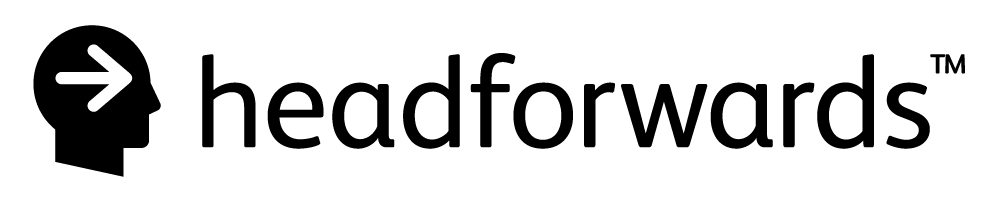
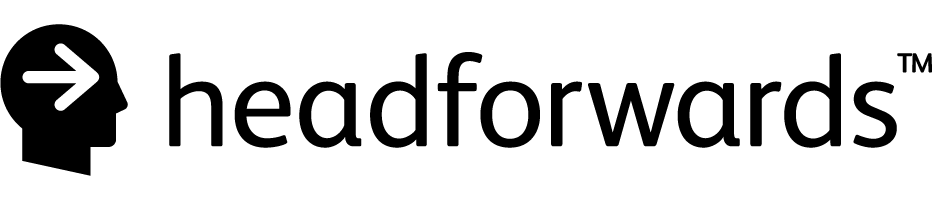
more column tweaks

Changed region(s): [[0.0, 0.12, 1.0, 0.9], [0.4979, 0.24, 0.529, 0.33], [0.529, 0.39, 0.5601, 0.42]]

diff --git a/src/components/page-layout/navbar/navbar.module.scss b/src/components/page-layout/navbar/navbar.module.scss
@@ -4,7 +4,11 @@
 @import '../../page-components/page-component';
 
 .menu {
-    padding: $gutter-small;
+    padding: $gutter-small $gutter-small/2;
+    @media (min-width: $screen-md) {
+        padding: $gutter-small $gutter-medium/2;
+    }
+
     background-color: white;
     border-bottom: 1px solid #D8D8D8;
 
@@ -14,7 +18,10 @@
 
         a {
             @include fontLarge;
-            margin-bottom: 0;
+            margin: 0 $gutter-small/2;
+            @media (min-width: $screen-md) {
+                margin: 0 $gutter-medium/2;
+            }
 
             text-indent: -1000vw;
             background-image: url("/images/headforwards.black.png");
@@ -284,7 +291,7 @@
 
             > section {
 
-               > ul  > li > a {
+                > ul  > li > a {
                     color: white;
                 }
             }

diff --git a/src/components/page-layout/navbar/hamburger/hamburger.module.scss b/src/components/page-layout/navbar/hamburger/hamburger.module.scss
@@ -2,7 +2,10 @@
 
 .hamburger {
     background-color: transparent;
-    padding: 1rem;
+    padding: 1rem $gutter-small/2;
+    @media (min-width: $screen-md) {
+        padding: 1rem $gutter-medium/2;
+    }
     display: inline-block;
     cursor: pointer;
     transition-property: opacity, filter;
